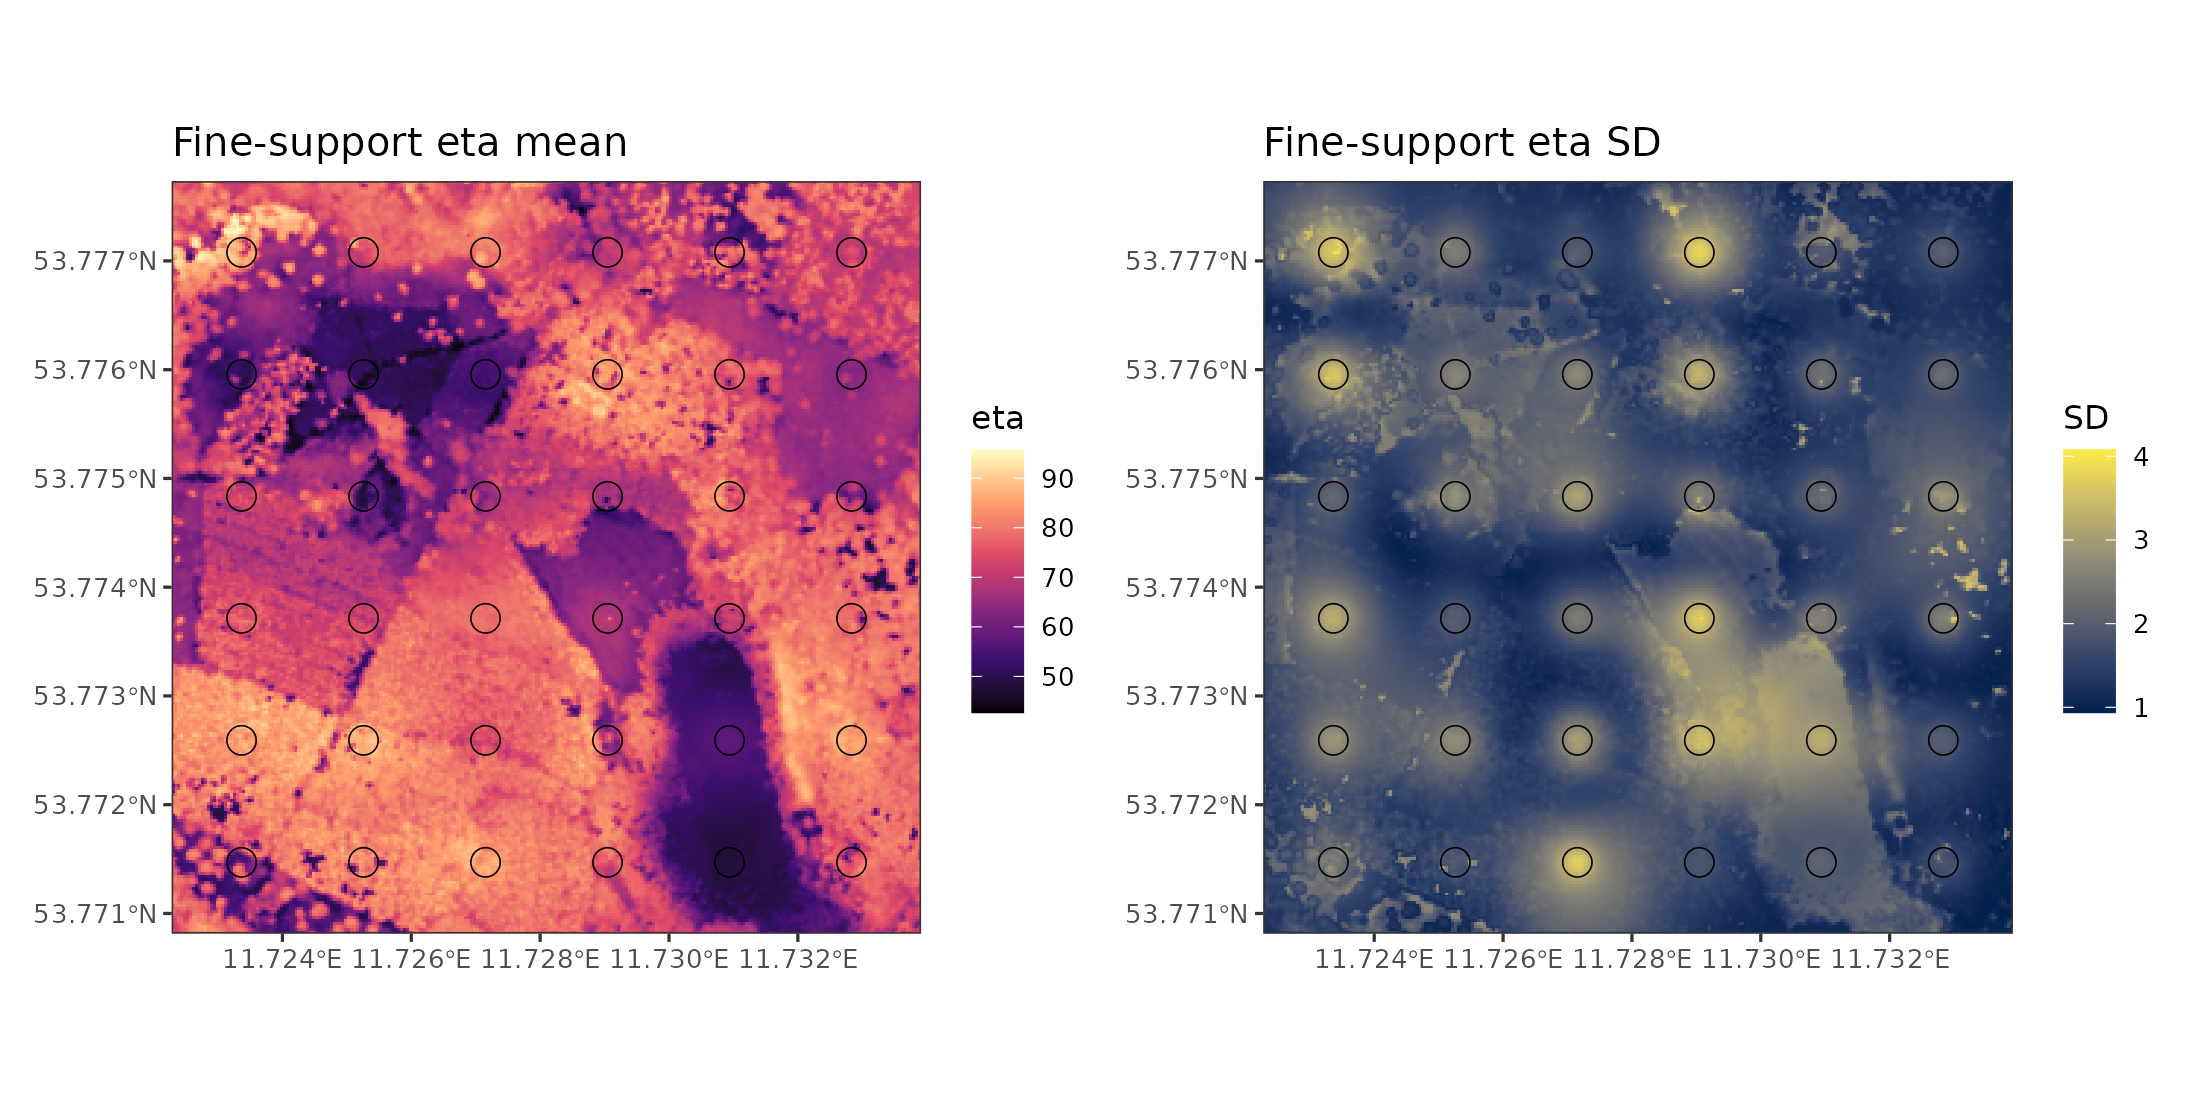
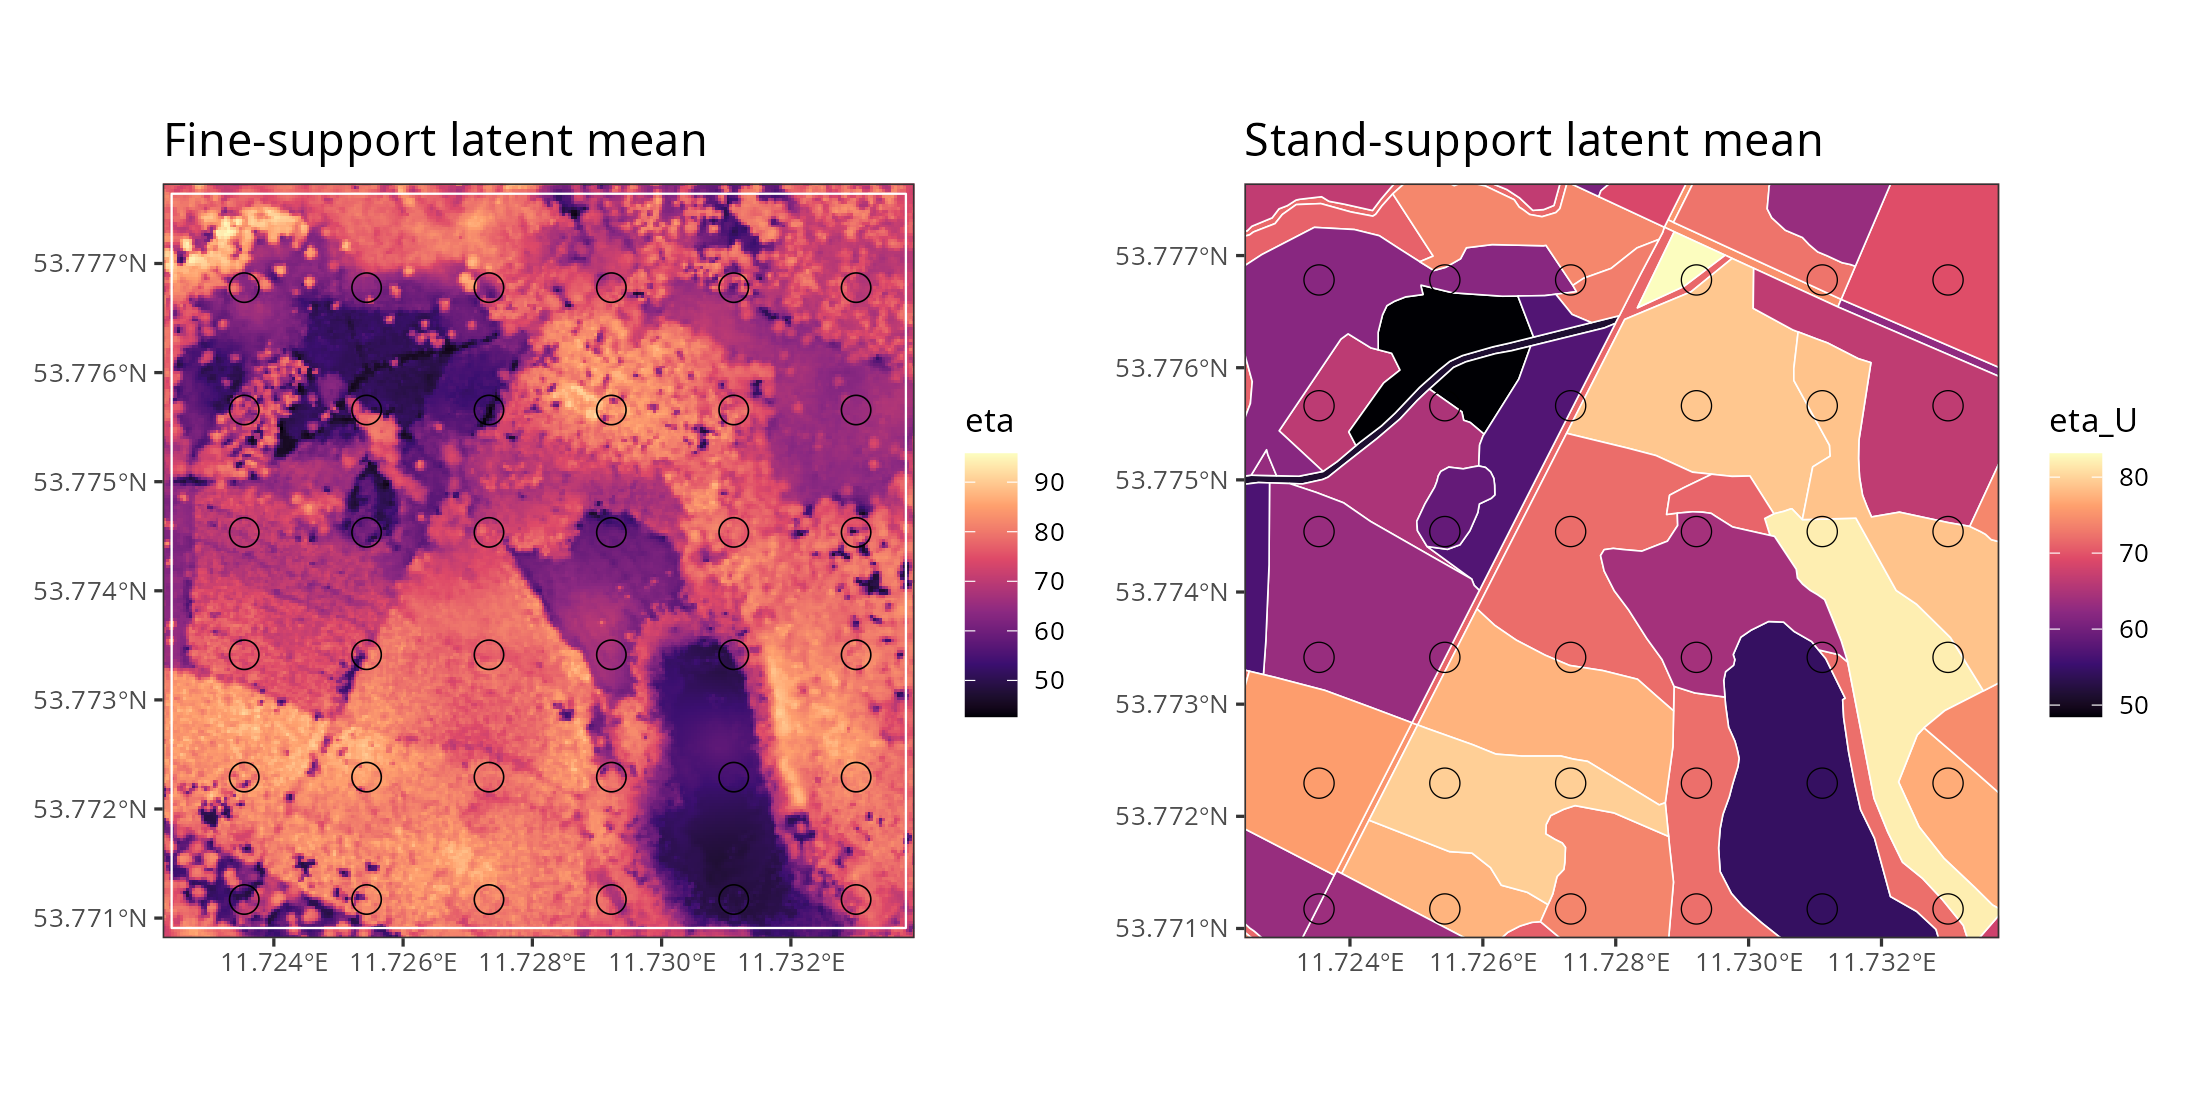
Replace README uncertainty figure

diff --git a/README.md b/README.md
@@ -19,7 +19,7 @@ fine-scale process over their footprints. The package uses a tapered
 exponential covariance for spatial residual variation so that large raster and
 polygon-support problems remain computationally manageable.
 
-![Example fine-support posterior mean and uncertainty](README_files/fine-prediction.png)
+![Example fine-support and stand-support latent predictions](README_files/fine-prediction.png)
 
 ## Features
 
